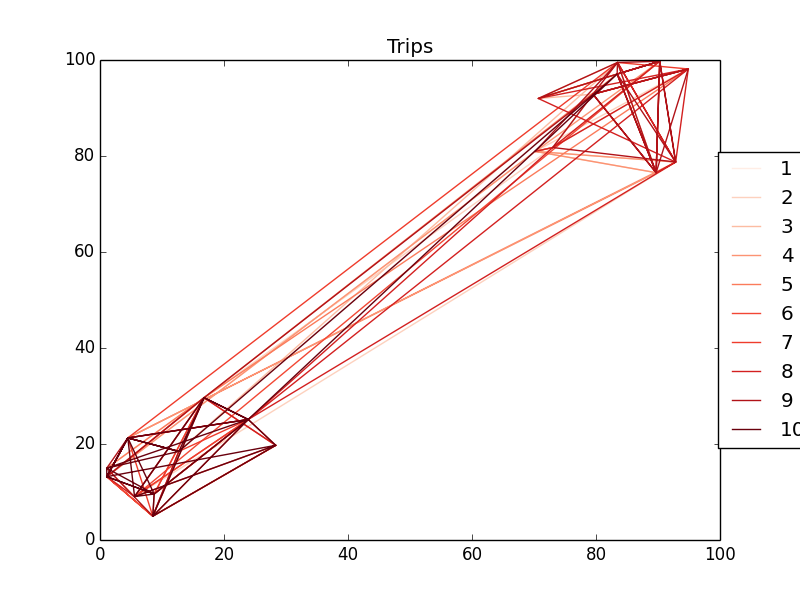
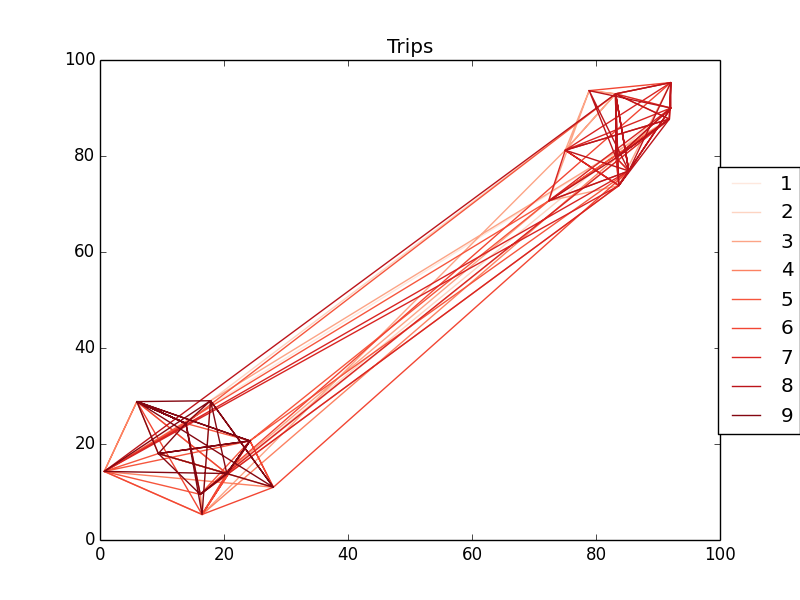
push

Changed region(s): [[0.125, 0.09, 0.875, 0.87], [0.875, 0.24, 1.0, 0.75]]

diff --git a/GAOperator.py b/GAOperator.py
@@ -79,11 +79,11 @@ class GAOperator:
                 # Optimization
                 for j in range(Ngene):
                     if DG.getCostGA(self.genes[j]) < INF:
-                        # genejOpt = self.optimize(copy.deepcopy(self.genes[j]))
-                        # if self.chromoAble(genejOpt) :
-                        #    print("OPT is influential")
-                        #    self.genes[j] = genejOpt
-                        # No influence of optimize function
+                        genejOpt = self.optimize(copy.deepcopy(self.genes[j]))
+                        if self.chromoAble(genejOpt) :
+                            print("OPT is influential")
+                            self.genes[j] = genejOpt
+
                         genejOpt = self.optimization(copy.deepcopy(self.genes[j]))
                         if self.chromoAble(genejOpt) : self.genes[j] = genejOpt
                         genejOpt = self.ropti(copy.deepcopy(self.genes[j]))

diff --git a/Simulator.py b/Simulator.py
@@ -211,7 +211,7 @@ class Simulator:
         f.close()
 
 if __name__ == "__main__":
-    n = 1
+    n = 5
     off = False
     for i in range(n) :
         S = Simulator(MapType='clust', ReqType='CS2')
